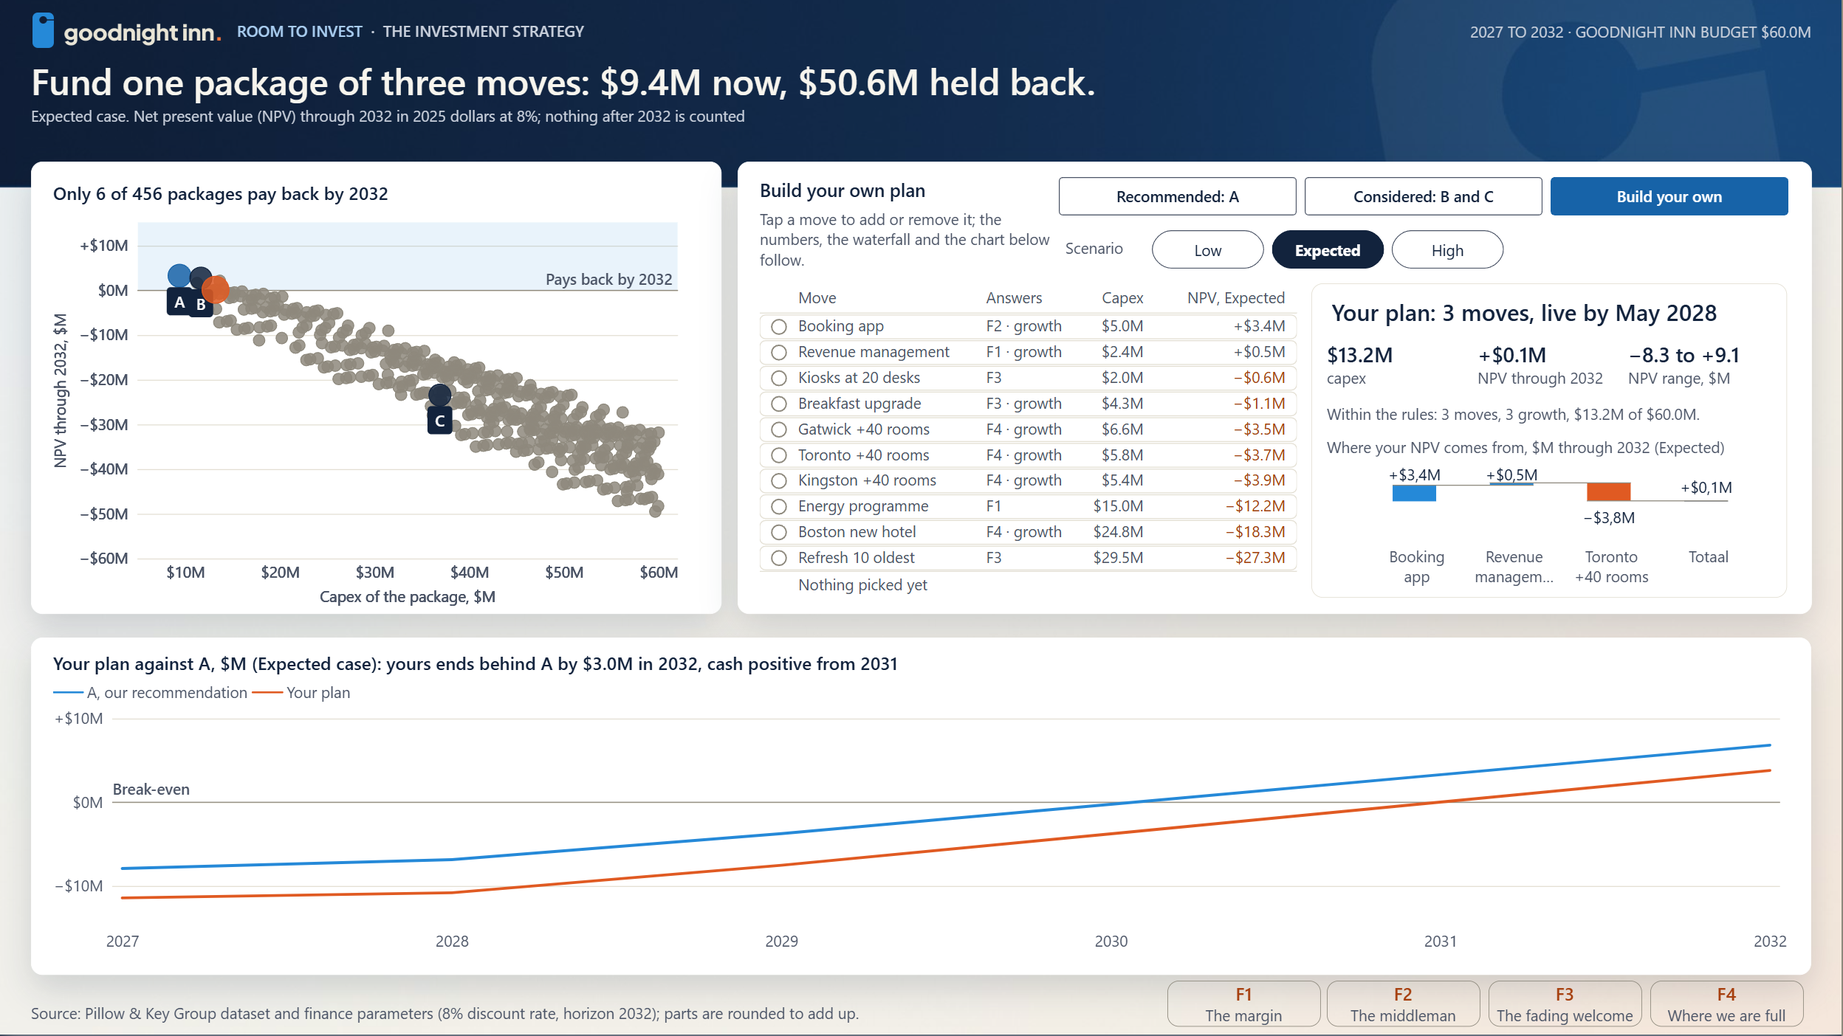
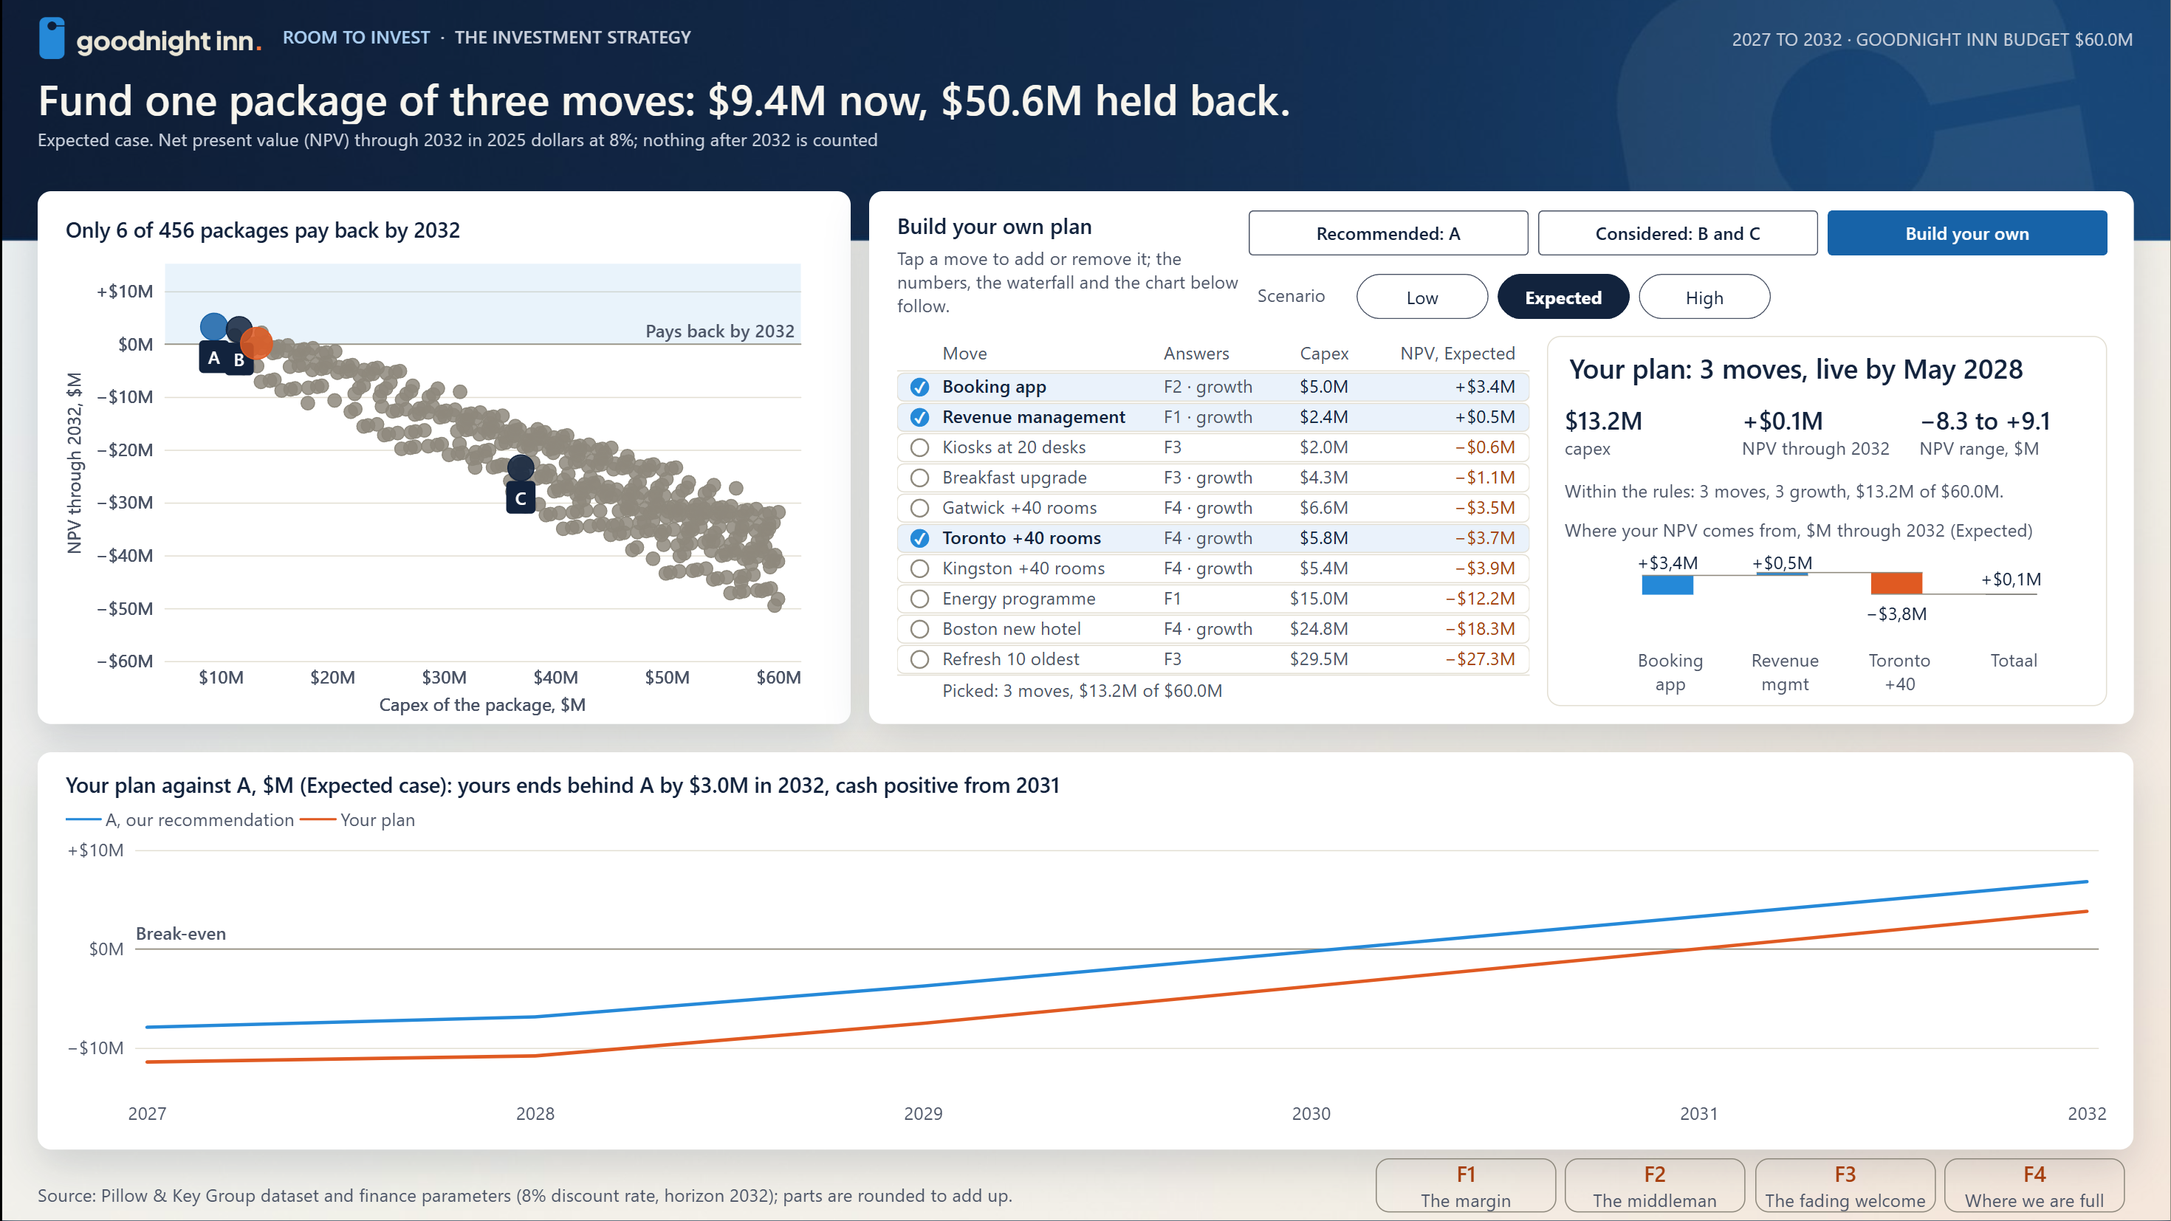
Verificatie 17 restpunten: korte watervalnamen (BuildMove[Waterfall Label]), renders 05/06 na echte klikken, README-notities
- BuildMove krijgt Waterfall Label (12 tekens max, sortByColumn Sort); alleen ch_build_waterfall gebruikt die kolom
- 05/06 opnieuw gemaakt met geposte muisklikken in de Deneb-selector (vinkjes, voetregel, tegel, waterval, grafiek), geen filters
- README: werkwijze per render en wat alleen de gepubliceerde versie kan tonen (P2W-set 20-28 door Bjorn)
- doc 16 aangevuld, BUILD_LOG, CLAUDE.md-routing met doc 17

diff --git a/project/tools/sketch_model.py b/project/tools/sketch_model.py
@@ -1765,6 +1765,7 @@ RETURN
         Proj,
         "ProjectID", InvestmentProjects[ProjectID],
         "Short Name", InvestmentProjects[Short Name],
+        "Waterfall Label", SWITCH ( InvestmentProjects[ProjectID], "GI-01", "Booking app", "GI-02", "Kiosks", "GI-03", "Energy", "GI-04", "Toronto +40", "GI-05", "Gatwick +40", "GI-06", "Kingston +40", "GI-07", "Refresh 10", "GI-08", "Boston hotel", "GI-09", "Breakfast", "GI-10", "Revenue mgmt", InvestmentProjects[Short Name] ),
         "Sort", VAR p = InvestmentProjects[ProjectID]
             RETURN RANKX (
                 Proj,
@@ -2019,8 +2020,11 @@ def main():
     # selector's cross-filter reaches only the Build measures (TREATAS onto InvestmentProjects) and never A's visuals.
     bm = calc_table(
         "BuildMove", "Disconnected copy of the ten Goodnight Inn moves for the build-your-own plan (P2, build state). The Deneb selector cross-filters this table; the Build measures carry the selection onto InvestmentProjects with TREATAS. Sort: by Expected NPV, high to low.",
-        [("ProjectID", "string", None), ("Short Name", "string", None), ("Sort", "int64", "0"), ("Growth", "string", None), ("Answers", "string", None)], BUILD_MOVE)
+        [("ProjectID", "string", None), ("Short Name", "string", None), ("Waterfall Label", "string", None), ("Sort", "int64", "0"), ("Growth", "string", None), ("Answers", "string", None)], BUILD_MOVE)
     assert "\tcolumn 'Short Name'\n\t\tdataType: string\n" in bm
+    # verification 17 (12 Nov): the build waterfall labels its bars with a shorter name (12 characters at most) so no bar
+    # ends in an ellipsis; the selector and the tooltips keep the full Short Name. Both columns sort by the NPV rank.
+    bm = bm.replace("\tcolumn 'Waterfall Label'\n\t\tdataType: string\n", "\tcolumn 'Waterfall Label'\n\t\tdataType: string\n\t\tsortByColumn: Sort\n")
     w(d / "tables" / "BuildMove.tmdl", bm.replace("\tcolumn 'Short Name'\n\t\tdataType: string\n", "\tcolumn 'Short Name'\n\t\tdataType: string\n\t\tsortByColumn: Sort\n"))
     w(d / "tables" / "BuildPoint.tmdl", helper_table(
         "BuildPoint", "One row, 'Your plan': the category of the scatter layer that marks the plan being built (its X and Y are the Build Capex and Build NPV measures).",

diff --git a/project/tools/opzet_report.py b/project/tools/opzet_report.py
@@ -850,7 +850,8 @@ def p2_visuals():
     v.append(nums_card("c_you_nums", ["Build Capex (text)", "Build NPV (text)", "Build Range (text)"], ["capex", "NPV through 2032", "NPV range, $M"], "Alt You Nums (text)", size=16))
     v.append(dyn(P2, "c_you_rules", "Build Valid (text)", colour_measure="Build Valid Color"))
     # FinalV2 (plan 15 S2): the $0 rest bar of the empty state reads as a waiting place, not a fault: a muted note as the tile's title
-    v.append(waterfall("ch_build_waterfall", "BuildMove", "Short Name", "Build Project NPV (shown)", "Build Row Flag", "Build WF Y Start", "Build WF Y End", "Alt Build Waterfall (text)",
+    # verification 17 (12 Nov): the bars carry BuildMove[Waterfall Label], 12 characters at most, so none ends in an ellipsis
+    v.append(waterfall("ch_build_waterfall", "BuildMove", "Waterfall Label", "Build Project NPV (shown)", "Build Row Flag", "Build WF Y Start", "Build WF Y End", "Alt Build Waterfall (text)",
                        title_measure="Build WF Note (text)", muted=True))
     v.append(cumulative_chart("ch_cmp_build", [("Preset A Cumulative Net (sel)", "A, our recommendation"), ("Build Cumulative Net (sel)", "Your plan")],
                               [ACCENT_MARK, SIGNAL_MARK], [3, 3], dashed=(), title_measure="Cmp Build Title (text)", alt_measure="Alt Cmp Build (text)"))

diff --git a/project/deliverables/screenshots/ScreenshotsFinalV2/README.md b/project/deliverables/screenshots/ScreenshotsFinalV2/README.md
@@ -1,8 +1,10 @@
 # ScreenshotsFinalV2 — GoodnightInn-opzet, FinalV2 (12 Nov 2026)
 
-Renders of `project/pbip/GoodnightInn-opzet.pbip` after the FinalV2 build (plan 15: M1, M2, S1 to S6, N1 to N6),
+Renders of `project/pbip/GoodnightInn-opzet.pbip` after the FinalV2 build (plan 15: M1, M2, S1 to S6, N1 to N6) and the
+two fixes from verification 17 (short bar labels in the build waterfall; renders 05 and 06 remade after real clicks),
 captured through the Desktop Bridge at scale 2 and cropped to the page. Page 1 and 2 are 1920 x 1080 logical px
-(here 2494 px wide); the tooltip pages are 480 px wide (here 1440 px, k = 3.0).
+(here 2494 px wide; 05 and 06 are 2940 px wide, captured in a 1920 px window); the tooltip pages are 480 px wide
+(here 1440 px, k = 3.0).
 
 ## Desktop set
 
@@ -12,8 +14,8 @@ captured through the Desktop Bridge at scale 2 and cropped to the page. Page 1 a
 | 02_p2-investment-strategy_recommended-A.png | Page 2, bookmark "Recommended: A", scenario Expected, all packages | M2 (the four F-chips in the footer row, the hanger free in the banner), S2 (short label "NPV range, $M") |
 | 03_p2-investment-strategy_considered-B-C.png | Page 2, bookmark "Considered: B and C" | S4 (comparer title "B ends within $1M of A by 2032; C never breaks even") |
 | 04_p2-investment-strategy_build-your-own-empty.png | Page 2, bookmark "Build your own", nothing picked | S2 (short label, the muted note "Pick moves on the left; your plan appears here." as the waterfall's title) |
-| 05_p2-investment-strategy_build-your-own-filled.png | The same state with three valid moves (Booking app, Toronto +40 rooms, Revenue management) | the filled build waterfall with its own title, N1 (selector capex at one decimal: $4.3M, $24.8M), the rules line |
-| 06_p2-investment-strategy_build-your-own-over-budget.png | The same state over the budget (Refresh 10 oldest, Boston new hotel, Energy programme: $69.25M) | the budget alarm (Tangerine band, "Not yet within the rules") |
+| 05_p2-investment-strategy_build-your-own-filled.png | The same state after three real clicks in the selector (Booking app, Revenue management, Toronto +40 rooms) | the working click chain: three ticked rows, the selector footer "Picked: 3 moves, $13.2M of $60.0M", the plan tile "Your plan: 3 moves, live by May 2028", the rules line "Within the rules", the waterfall with its own title; verification 17: the bars read "Booking app", "Revenue mgmt", "Toronto +40", no ellipsis; N1 (selector capex at one decimal) |
+| 06_p2-investment-strategy_build-your-own-over-budget.png | The same state after three real clicks over the budget (Energy programme, Boston new hotel, Refresh 10 oldest: $69.25M) | the budget alarm from a click: three ticked rows, the selector footer in Tangerine "Over budget by $9.25M: $69.25M picked, the cap is $60.0M", the Tangerine band "Over the $60.0M budget by $9.25M", "Not yet within the rules: over the budget."; the bars "Energy", "Boston hotel", "Refresh 10" |
 | 10_tt-f1.png … 13_tt-f4.png | The four finding tooltips (hover a finding card on page 1 or a chip on page 2) | N5 (chart and note centred in the card, F1 to F3) |
 | 14_tt-f3-band.png | Band tooltip, rendered for "10 years or more" | S3 (Goodnight Inn line in Coffee Blue, the band in Night), N2 (brand line "RevPAR $84.80" on the KPI's decimals) |
 | 15_tt-f4-hotel.png | Hotel tooltip, rendered for Toronto Pearson Airport | S3, N2 ("ADR $106.82, RevPAR $84.80"), N6 (room-nights line gone, the page 64 px shorter), the value axis 60 to 100 % back |
@@ -21,30 +23,44 @@ captured through the Desktop Bridge at scale 2 and cropped to the page. Page 1 a
 | 17_tt-package-C.png | Package tooltip on package C, Expected | M1 on C: the band left of break-even, A and B clear at the right |
 | 18_tt-year.png | Year tooltip, rendered for 2030 | N3 (title "To the end of 2030: where the four options stand") |
 
-The context-dependent tooltip pages (14 to 18) and the five page-2 states (03 to 06) were rendered from a throwaway
-copy of the project with a temporary page filter, the bookmark's visibility or a visual-level filter on the build
-targets applied; the committed project has no such filters. Two consequences of that method, visible in 05 and 06: the
-Deneb selector itself is not filtered, so its rows show no picked state and its footer still reads "Nothing picked
-yet"; in the report a click on a row does both. In the report the tooltips follow the hovered data point, and the
-report setting `useScaledTooltips` scales them with the canvas (tooltip pages are 480 px wide against a 1920 px page).
+## How the renders were made
 
-## Publish-to-Web set (20 to 28): NOT RENDERED
+- **05 and 06 are real clicks.** The copy was opened in Desktop in the "Build your own" state with nothing picked and
+  no filter of any kind; each row was then clicked by posting the mouse messages (move, button down, button up) to
+  the report view, the same path a mouse takes. The Deneb selector did the rest: the ticks, its footer, the plan tile,
+  the rules line, the waterfall and the chart below all follow the clicks. Nothing in 05 or 06 comes from a filter.
+  Between 05 and 06 the copy was reloaded, so 06 starts from an empty plan as well.
+- **03, 04 and 14 to 18 come from a throwaway copy** of the project with the bookmark's visibility applied (03, 04)
+  or a temporary page filter for the hovered context (14 to 18: package A or C, band "10 years or more", hotel
+  Toronto Pearson Airport, year 2030). The committed project has no such filters. In the report the tooltips follow
+  the hovered data point, and the report setting `useScaledTooltips` scales them with the canvas (tooltip pages are
+  480 px wide against a 1920 px page).
+- **Build waterfall labels (verification 17).** The bars carry the new column `BuildMove[Waterfall Label]` (at most
+  12 characters: "Revenue mgmt", "Boston hotel", "Kingston +40", ...); the selector and the tooltips keep the full
+  Short Name. With three bars the labels wrap to two lines at most and none ends in an ellipsis (05, 06). With more
+  bars picked the axis has less room per bar; the names were chosen so that the longest fits two lines of 10 pt.
+- **"Totaal"** under the last bar (04 to 06) is Desktop's nl-NL label for the waterfall's total; in an en-US browser
+  it reads "Total" (M3, accepted).
 
-The files `20_p2w-p1-1366.png` to `28_p2w-mac-fonts.png` of plan 15, section 7, are not in this set. They need the
-report published to the Power BI service with Publish to Web switched on (phase 5 of the plan), which only Björn can
-do: publishing is the user's action (rule `mutation-safety.md`), and no service link exists yet. The gate's eight
-checks (Deneb selector after a click, scaled tooltips at 1366 and 1920, the package tooltip on dot A high in the cloud,
-the background at 45 % and 100 % zoom, en-US notation, one nl-NL session for the known mix, fonts on a Mac, the
-keyboard round) stay open until then. Desktop evidence that stands in for part of them: the tooltips render at 480 px
-with `useScaledTooltips` on (16 to 18), and the Deneb selector drives the numbers in Desktop (05, 06, via the
-cross-filter stand-in described above).
+## Not rendered here: what only the published report can show
 
-Keyboard round (plan 15, phase 5 step 7): not run in the service. Known from Desktop (BUILD_LOG, 9 Nov): the tab
-bar and the slicers are reachable and named; the Deneb selector cannot be operated with the keyboard (known
-limitation for the submission notes).
+- **Publish-to-Web set, 20 to 28** (`20_p2w-p1-1366.png` to `28_p2w-mac-fonts.png`, plan 15 section 7, phase 5):
+  these need the report in the Power BI service with Publish to Web on. Publishing is Björn's action (rule
+  `mutation-safety.md`) and he renders this set by hand after publication. Open until then: the Deneb selector after
+  a click in the browser (22), scaled tooltips at 1366 and 1920, the package tooltip on dot A high in the cloud, the
+  background at 45 % and 100 % zoom, en-US notation in the browser, one nl-NL session for the known mix (26), fonts
+  on a Mac, and the keyboard round.
+- **Keyboard round in the service** (plan 15, phase 5 step 7): not run. Known from Desktop (BUILD_LOG, 9 Nov): the tab
+  bar and the slicers are reachable and named; the Deneb selector cannot be operated with the keyboard (known
+  limitation for the submission notes).
+- **A tooltip hovering in place.** The tooltip pages are rendered standalone (10 to 18); a capture of the tooltip
+  floating over the hovered card, chip or dot on page 1 or 2 is not in this set. Desktop evidence that the bindings
+  hold: the chips and cards point at tt-f1 to tt-f4 in the PBIR, and the pages render at 480 px.
+- **Page 1 and 2 in a browser at 1366 px** (the jury's likely laptop width): a Desktop capture cannot show the
+  service's scaling; see 20 and 21 of the Publish-to-Web set.
 
 ## Notation (M3)
 
 Accepted as decided in plan 15, phase 4: native labels follow the viewer's locale (here nl-NL Desktop: "+6,8",
-"91,9%", "$84,99"), text measures and SVGs are en-US. Under an en-US browser everything shows points; the nl-NL
-screenshot for the submission notes is item 26 of the Publish-to-Web set.
+"91,9%", "$84,99", "Totaal"), text measures and SVGs are en-US. Under an en-US browser everything shows points; the
+nl-NL screenshot for the submission notes is item 26 of the Publish-to-Web set.

diff --git a/project/project-state/active/16-finalv2-bouwlog-2026-11-12.md b/project/project-state/active/16-finalv2-bouwlog-2026-11-12.md
@@ -99,3 +99,31 @@ over twee schermen gaf een pagina van 530 px). `crop.py`: kaders beginnen op y 1
   tt-package en tt-f4-hotel terug (lay-out en canvasbeelden; die pagina's waren alleen in de kopie herladen) plus
   Desktop-artefacten. Teruggezet naar `c8d13c6` via `git stash` ("Desktop-save 2026-11-12"); niets verloren. Regel
   voortaan: de agent sluit zijn eigen Desktop-vensters zonder opslaan aan het eind van de ronde.
+
+## Restpunten uit verificatie 17 (12 nov, middag)
+
+Bron: [doc 17](17-verificatie-finalv2-2026-11-12.md), "Wat nu nog moet" 1 en de README-opdracht. De P2W-poort (punt 2)
+doet Bjorn handmatig na publicatie.
+
+- **Watervalnaam leesbaar.** `BuildMove` kreeg een kolom `Waterfall Label` (SWITCH op ProjectID, hoogstens 12 tekens:
+  Booking app, Revenue mgmt, Kiosks, Breakfast, Gatwick +40, Toronto +40, Kingston +40, Energy, Boston hotel,
+  Refresh 10; `sortByColumn: Sort` zoals Short Name). Alleen `ch_build_waterfall` gebruikt die kolom; selector,
+  tooltips en de A-waterval houden de volledige Short Name. Generator `sketch_model.py` (BUILD_MOVE + kolomlijst) en
+  `opzet_report.py` (regel 853). Echte diff: BuildMove.tmdl +10 regels, ch_build_waterfall/visual.json 3 regels.
+  Render 05: "Booking app / Revenue mgmt / Toronto +40", twee regels, geen ellips; 06: "Energy / Boston hotel /
+  Refresh 10".
+- **Echte klikrenders 05 en 06.** Wegwerpkopie in de build-stand zonder enig filter (`copyprep.py build A -`), venster
+  1920 x 1080 op het hoofdscherm. `mouse_event`-klikken bereikten Deneb niet (Desktop selecteert dan alleen de visual-
+  container, render 12 nov); `PostMessage` van WM_MOUSEMOVE/LBUTTONDOWN/LBUTTONUP naar de `Chrome_RenderWidgetHostHWND`
+  van de rapportweergave wel (scratch-script `click_post.ps1`; rijcoördinaten: pagina-oorsprong op scherm (47,5; 182,5),
+  0,765 schermpx per logische px, rijen 26,8 px hoog onder een kop van 32). Rij 1/2/6 (GI-01, GI-10, GI-04) → 05:
+  drie vinkjes, voetregel "Picked: 3 moves, $13.2M of $60.0M", tegel "Your plan: 3 moves, live by May 2028". Herladen,
+  rij 10/9/8 (GI-07, GI-08, GI-03) → 06: voetregel in Tangerine "Over budget by $9.25M: $69.25M picked, the cap is
+  $60.0M", alarmband. Geen visual-filters meer in 05/06; de README zegt dat. Rijvolgorde uit het model (DAX via de
+  modeling-MCP op poort 49158): GI-01, GI-10, GI-02, GI-09, GI-05, GI-04, GI-06, GI-03, GI-08, GI-07.
+- **README** herschreven: werkwijze per render, de watervalkolom, "Totaal" (nl-NL), en een paragraaf over wat alleen de
+  gepubliceerde versie kan tonen (20-28, toetsenbordronde, tooltip zwevend op zijn plaats, 1366 px in de browser).
+- **Poorten:** validate_tmdl 34 bestanden 0 fouten; schema_check 0 falend; a11y_check 0; pbir_detect 4 onbewaakt
+  (ongewijzigd, van vóór deze ronde); Microsofts validator 1 fout + 25 waarschuwingen (ongewijzigd, bekend).
+- **Desktop** aan het eind gesloten via CloseMainWindow en "Niet opslaan" (UI Automation); geen PBIDesktop-proces
+  meer. De projectmap is nooit in Desktop geopend in deze ronde.

diff --git a/CLAUDE.md b/CLAUDE.md
@@ -102,7 +102,7 @@ The daily driver is `/next` — it reads the state, reports gate status, and rou
 | Verbeterplan ronde 3 (Bjorns feedback 7 nov: C-framing, scatter-tooltips, nullijn, canvasruimte, merkherkenning + open punten ronde 2) | `project/project-state/active/08-verbeterplan-ronde-3.md` |
 | Rebuild-pakket 9 nov: deel A inhoud (KPI-onderzoek, R1-R5) + deel B design (merkkit goodnight-inn-wakeup 3.1, night header, D1-D7), gezamenlijke bouwvolgorde | `project/project-state/active/09-research-based-rebuild.md` + `project/project-state/active/10-design-rebuild.md` |
 | Rebuild 09+10 gebouwd op v3 (afstemming plannen tegen main vs. v3-build, besluiten 9 nov: night-glow-waiver, 12 pt, R1 als zin in F1, toegankelijkheidscontrole en a11y_check.py) | `project/project-state/active/11-rebuild-v3-reconciliation.md` |
-| FinalV1 → FinalV2 (12 nov): review doc 14, bouwplan doc 15 (M1-M5, S1-S6, N1-N6), bouwlog doc 16 (wat gebouwd, afwijkingen, P2W-poort open) | `project/project-state/active/14-review-finalv2-2026-11-12.md`, `15-bouwplan-finalv2-2026-11-12.md`, `16-finalv2-bouwlog-2026-11-12.md`; renders `project/deliverables/screenshots/ScreenshotsFinalV2/` |
+| FinalV1 → FinalV2 (12 nov): review doc 14, bouwplan doc 15 (M1-M5, S1-S6, N1-N6), bouwlog doc 16 (wat gebouwd, afwijkingen, restpunten van verificatie 17 gedaan: watervalnamen, echte klikrenders), verificatie doc 17 (controle-agent, P2W-poort open) | `project/project-state/active/14-review-finalv2-2026-11-12.md`, `15-bouwplan-finalv2-2026-11-12.md`, `16-finalv2-bouwlog-2026-11-12.md`, `17-verificatie-finalv2-2026-11-12.md`; renders `project/deliverables/screenshots/ScreenshotsFinalV2/` |
 | Keep the toolkit first-in-class (research any subject) | skill `scout` + `research/radar.md` |
 
 ## Environment notes

diff --git a/project/deliverables/BUILD_LOG.md b/project/deliverables/BUILD_LOG.md
@@ -172,3 +172,17 @@ Desktop                : project window (P1, P2 rec, tt-f1..f4) + a throwaway co
                          (never in the project); renders in project/deliverables/screenshots/ScreenshotsFinalV2/ with README (Desktop set 01-18
                          complete; Publish-to-Web set 20-28 NOT rendered: publishing is Björn's action, no service link yet)
 ```
+
+```
+2026-11-12, verification 17 follow-up (short build-waterfall labels; renders 05/06 remade after real clicks)
+validate_tmdl --strict : 34 file(s), 0 error(s), 0 warning(s) [strict]
+a11y_check             : 0 failure(s), 0 note(s) over GoodnightInn-opzet.Report
+schema_check           : ch_build_waterfall/visual.json 0 failing (the only changed report file)
+pbir_detect opzet      : 9 finding(s) — 4 unwaived, 5 waived -> FAIL (unchanged, all from before FinalV2)
+MS validate (opzet)    : failed errors 1 warnings 25 (unchanged: the pre-existing categoryLabels.backgroundColor shape on the A/B/C scatter layer)
+model                  : BuildMove + column Waterfall Label (SWITCH on ProjectID, 12 characters at most, sortByColumn Sort); ch_build_waterfall
+                         groups by it; selector, tooltips and the A waterfall keep Short Name
+Desktop                : throwaway copy only, build state, no filters; rows clicked by posting mouse messages to the report view (mouse_event
+                         only selects the visual container in edit mode); 05 = rows GI-01/GI-10/GI-04, 06 = GI-07/GI-08/GI-03 after a reload;
+                         the project was not opened; Desktop closed without saving at the end
+```
